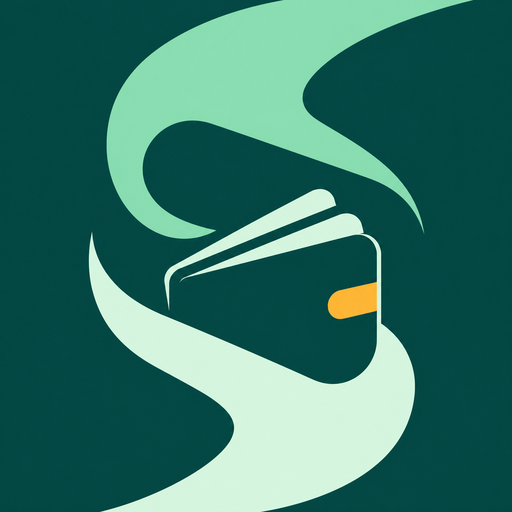
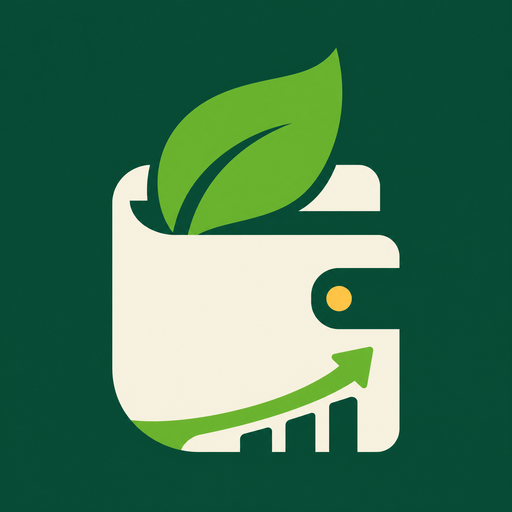
Checkpoint: Revisão visual do Saldo Claro: tokens de tema claros e escuros atualizados para verdes inspirados no Sicredi, componentes e estados semânticos harmonizados, ícone regenerado e aplicado aos recursos da aplicação, configuração Android atualizada e validações de tipos, testes e lint concluí

diff --git a/app/cards.tsx b/app/cards.tsx
@@ -9,10 +9,10 @@ import { useFinanceTheme } from "@/lib/finance-theme";
 
 export default function CardsScreen() {
   const finance = useFinance(); const { colors } = useFinanceTheme(); const [open, setOpen] = useState(false); const [name, setName] = useState(""); const [limit, setLimit] = useState("1000,00");
-  const save = () => { if (!name.trim()) return; finance.addCard({ name: name.trim(), brand: "Visa", lastDigits: "", limit: Number(limit.replace(/[.\s]/g, "").replace(",", ".")) || 1000, closingDay: 25, dueDay: 5, color: "#163C57", accountId: finance.accounts[0]?.id }); setOpen(false); setName(""); };
+  const save = () => { if (!name.trim()) return; finance.addCard({ name: name.trim(), brand: "Visa", lastDigits: "", limit: Number(limit.replace(/[.\s]/g, "").replace(",", ".")) || 1000, closingDay: 25, dueDay: 5, color: "#0B5D2A", accountId: finance.accounts[0]?.id }); setOpen(false); setName(""); };
   return <ScreenContainer><ScrollView contentContainerStyle={styles.content} showsVerticalScrollIndicator={false}><AppHeader title="Cartões" subtitle="Acompanhe limite e faturas" back right={<Pressable onPress={() => setOpen(true)} style={({ pressed }) => [styles.add, { backgroundColor: colors.primary, opacity: pressed ? 0.8 : 1 }]}><MaterialIcons name="add" size={21} color="#FFFFFF" /></Pressable>} />
     {finance.cards.length ? finance.cards.map((card) => { const used = getCardUsage(finance, card, currentMonth()); const available = Math.max(card.limit - used, 0); return <View key={card.id} style={[styles.card, { backgroundColor: card.color }]}><View style={styles.cardTop}><Text style={styles.cardBrand}>{card.brand.toUpperCase()}</Text><MaterialIcons name="contactless" size={23} color="#FFFFFF" /></View><Text style={styles.cardName}>{card.name}</Text><Text style={styles.cardDigits}>{card.lastDigits ? `•••• ${card.lastDigits}` : "Cartão de crédito"}</Text><View style={styles.cardBottom}><View><Text style={styles.cardLabel}>Disponível</Text><MoneyText value={available} style={styles.cardMoney} /></View><View style={{ alignItems: "flex-end" }}><Text style={styles.cardLabel}>Fecha dia {card.closingDay}</Text><Text style={styles.cardLimit}>Limite <MoneyText value={card.limit} style={styles.cardLimitMoney} /></Text></View></View><View style={styles.cardProgress}><ProgressBar value={card.limit ? (used / card.limit) * 100 : 0} color="#79D7C7" trackColor="#FFFFFF35" /></View></View>; }) : <EmptyState icon="credit-card" title="Nenhum cartão cadastrado" description="Registre seus cartões para enxergar compras e faturas antes do vencimento." action="Adicionar cartão" onAction={() => setOpen(true)} />}
     <Surface style={styles.tip}><MaterialIcons name="lightbulb-outline" size={20} color={colors.warning} /><Text style={[styles.tipText, { color: colors.muted }]}>Compras no cartão entram no relatório como despesas, sem duplicar quando a fatura for paga.</Text></Surface>
   </ScrollView><Modal visible={open} transparent animationType="slide" onRequestClose={() => setOpen(false)}><View style={styles.overlay}><View style={[styles.sheet, { backgroundColor: colors.surface }]}><View style={[styles.handle, { backgroundColor: colors.border }]} /><Text style={[styles.sheetTitle, { color: colors.text }]}>Novo cartão</Text><Text style={[styles.label, { color: colors.text }]}>Nome do cartão</Text><TextInput value={name} onChangeText={setName} placeholder="Ex.: Meu cartão principal" placeholderTextColor={colors.muted} style={[styles.input, { color: colors.text, borderColor: colors.border }]} /><Text style={[styles.label, { color: colors.text, marginTop: 14 }]}>Limite total</Text><TextInput value={limit} onChangeText={setLimit} keyboardType="decimal-pad" placeholderTextColor={colors.muted} style={[styles.input, { color: colors.text, borderColor: colors.border }]} /><Pressable onPress={save} style={({ pressed }) => [styles.save, { backgroundColor: colors.primary, opacity: pressed ? 0.8 : 1 }]}><Text style={styles.saveText}>Salvar cartão</Text></Pressable><Pressable onPress={() => setOpen(false)} style={styles.cancel}><Text style={[styles.cancelText, { color: colors.muted }]}>Cancelar</Text></Pressable></View></View></Modal></ScreenContainer>;
 }
-const styles = StyleSheet.create({ content: { paddingHorizontal: 20, paddingBottom: 28 }, add: { height: 40, width: 40, borderRadius: 20, alignItems: "center", justifyContent: "center" }, card: { borderRadius: 23, padding: 19, marginBottom: 12, minHeight: 210, shadowColor: "#0C211C", shadowOpacity: 0.16, shadowRadius: 12, shadowOffset: { width: 0, height: 6 }, elevation: 2 }, cardTop: { flexDirection: "row", justifyContent: "space-between" }, cardBrand: { color: "#FFFFFFAA", fontSize: 11, fontWeight: "900", letterSpacing: 1.2 }, cardName: { color: "#FFFFFF", fontSize: 20, fontWeight: "800", marginTop: 30 }, cardDigits: { color: "#FFFFFFC8", fontSize: 13, marginTop: 6, letterSpacing: 1.2 }, cardBottom: { flexDirection: "row", justifyContent: "space-between", marginTop: 24 }, cardLabel: { color: "#FFFFFFA8", fontSize: 11, fontWeight: "600" }, cardMoney: { color: "#FFFFFF", fontSize: 16, marginTop: 3 }, cardLimit: { color: "#FFFFFFD8", fontSize: 11, marginTop: 4 }, cardLimitMoney: { color: "#FFFFFF", fontSize: 11 }, cardProgress: { marginTop: 12 }, tip: { borderRadius: 17, flexDirection: "row", gap: 10, alignItems: "flex-start", padding: 14, marginTop: 8 }, tipText: { flex: 1, fontSize: 12, lineHeight: 17 }, overlay: { flex: 1, justifyContent: "flex-end", backgroundColor: "#00000066" }, sheet: { padding: 22, paddingBottom: 28, borderTopLeftRadius: 28, borderTopRightRadius: 28 }, handle: { width: 38, height: 4, borderRadius: 3, alignSelf: "center", marginBottom: 19 }, sheetTitle: { fontSize: 20, fontWeight: "800", marginBottom: 18 }, label: { fontSize: 13, fontWeight: "800", marginBottom: 7 }, input: { height: 48, borderRadius: 13, borderWidth: 1, paddingHorizontal: 13, fontSize: 14, fontWeight: "600" }, save: { height: 51, borderRadius: 16, alignItems: "center", justifyContent: "center", marginTop: 21 }, saveText: { color: "#FFFFFF", fontSize: 14, fontWeight: "800" }, cancel: { alignItems: "center", marginTop: 13, padding: 7 }, cancelText: { fontSize: 13, fontWeight: "800" } });
+const styles = StyleSheet.create({ content: { paddingHorizontal: 20, paddingBottom: 28 }, add: { height: 40, width: 40, borderRadius: 20, alignItems: "center", justifyContent: "center" }, card: { borderRadius: 23, padding: 19, marginBottom: 12, minHeight: 210, shadowColor: "#063D1D", shadowOpacity: 0.16, shadowRadius: 12, shadowOffset: { width: 0, height: 6 }, elevation: 2 }, cardTop: { flexDirection: "row", justifyContent: "space-between" }, cardBrand: { color: "#FFFFFFAA", fontSize: 11, fontWeight: "900", letterSpacing: 1.2 }, cardName: { color: "#FFFFFF", fontSize: 20, fontWeight: "800", marginTop: 30 }, cardDigits: { color: "#FFFFFFC8", fontSize: 13, marginTop: 6, letterSpacing: 1.2 }, cardBottom: { flexDirection: "row", justifyContent: "space-between", marginTop: 24 }, cardLabel: { color: "#FFFFFFA8", fontSize: 11, fontWeight: "600" }, cardMoney: { color: "#FFFFFF", fontSize: 16, marginTop: 3 }, cardLimit: { color: "#FFFFFFD8", fontSize: 11, marginTop: 4 }, cardLimitMoney: { color: "#FFFFFF", fontSize: 11 }, cardProgress: { marginTop: 12 }, tip: { borderRadius: 17, flexDirection: "row", gap: 10, alignItems: "flex-start", padding: 14, marginTop: 8 }, tipText: { flex: 1, fontSize: 12, lineHeight: 17 }, overlay: { flex: 1, justifyContent: "flex-end", backgroundColor: "#00000066" }, sheet: { padding: 22, paddingBottom: 28, borderTopLeftRadius: 28, borderTopRightRadius: 28 }, handle: { width: 38, height: 4, borderRadius: 3, alignSelf: "center", marginBottom: 19 }, sheetTitle: { fontSize: 20, fontWeight: "800", marginBottom: 18 }, label: { fontSize: 13, fontWeight: "800", marginBottom: 7 }, input: { height: 48, borderRadius: 13, borderWidth: 1, paddingHorizontal: 13, fontSize: 14, fontWeight: "600" }, save: { height: 51, borderRadius: 16, alignItems: "center", justifyContent: "center", marginTop: 21 }, saveText: { color: "#FFFFFF", fontSize: 14, fontWeight: "800" }, cancel: { alignItems: "center", marginTop: 13, padding: 7 }, cancelText: { fontSize: 13, fontWeight: "800" } });

diff --git a/app/reports.tsx b/app/reports.tsx
@@ -10,4 +10,4 @@ export default function ReportsScreen() {
   const finance = useFinance(); const { colors } = useFinanceTheme(); const month = currentMonth(); const summary = getMonthlySummary(finance, month); const expenses = finance.categories.filter((category) => category.kind === "expense").map((category) => ({ category, value: getCategorySpending(finance, month, category.id) })).filter((item) => item.value > 0).sort((a, b) => b.value - a.value);
   return <ScreenContainer><ScrollView contentContainerStyle={styles.content} showsVerticalScrollIndicator={false}><AppHeader title="Relatórios" subtitle={formatMonth(month)} back /><Surface style={styles.summary}><View><Text style={[styles.summaryLabel, { color: colors.muted }]}>Resultado do mês</Text><MoneyText value={summary.result} style={styles.result} positive={summary.result >= 0} negative={summary.result < 0} /></View><View style={[styles.summaryIcon, { backgroundColor: summary.result >= 0 ? `${colors.positive}18` : `${colors.negative}18` }]}><MaterialIcons name={summary.result >= 0 ? "trending-up" : "trending-down"} size={24} color={summary.result >= 0 ? colors.positive : colors.negative} /></View></Surface><SectionTitle title="Entradas e saídas" /><Surface style={styles.chart}><View style={styles.chartRow}><View style={styles.dotIncome} /><Text style={[styles.chartName, { color: colors.text }]}>Receitas</Text><MoneyText value={summary.income} style={styles.chartMoney} positive /></View><ProgressBar value={100} color={colors.positive} /><View style={[styles.chartRow, { marginTop: 18 }]}><View style={styles.dotExpense} /><Text style={[styles.chartName, { color: colors.text }]}>Despesas</Text><MoneyText value={summary.expenses} style={styles.chartMoney} negative /></View><ProgressBar value={summary.income ? (summary.expenses / summary.income) * 100 : 0} color={colors.negative} /></Surface><SectionTitle title="Despesas por categoria" /><Surface style={styles.categoryChart}>{expenses.length ? expenses.map(({ category, value }) => <View key={category.id} style={styles.reportCategory}><View style={styles.reportCategoryTop}><View style={styles.reportNameWrap}><View style={[styles.reportDot, { backgroundColor: category.color }]} /><Text style={[styles.reportName, { color: colors.text }]}>{category.name}</Text></View><MoneyText value={value} style={styles.reportMoney} /></View><ProgressBar value={summary.expenses ? (value / summary.expenses) * 100 : 0} color={category.color} /></View>) : <Text style={[styles.empty, { color: colors.muted }]}>Registre despesas para visualizar esta análise.</Text>}</Surface><SectionTitle title="O que este painel mostra" /><Surface style={styles.info}><MaterialIcons name="info-outline" size={20} color={colors.primary} /><Text style={[styles.infoText, { color: colors.muted }]}>Transferências não entram como receita ou despesa. Valores pendentes influenciam a previsão, sem alterar o saldo realizado.</Text></Surface></ScrollView></ScreenContainer>;
 }
-const styles = StyleSheet.create({ content: { paddingHorizontal: 20, paddingBottom: 28 }, summary: { borderRadius: 21, flexDirection: "row", justifyContent: "space-between", alignItems: "center", padding: 17 }, summaryLabel: { fontSize: 12, fontWeight: "700" }, result: { fontSize: 26, marginTop: 4 }, summaryIcon: { height: 48, width: 48, borderRadius: 16, alignItems: "center", justifyContent: "center" }, chart: { borderRadius: 20, padding: 16 }, chartRow: { flexDirection: "row", alignItems: "center", marginBottom: 8 }, dotIncome: { height: 9, width: 9, borderRadius: 5, backgroundColor: "#159A6B", marginRight: 8 }, dotExpense: { height: 9, width: 9, borderRadius: 5, backgroundColor: "#D94343", marginRight: 8 }, chartName: { flex: 1, fontSize: 13, fontWeight: "800" }, chartMoney: { fontSize: 13 }, categoryChart: { borderRadius: 20, padding: 16 }, reportCategory: { marginBottom: 16 }, reportCategoryTop: { flexDirection: "row", justifyContent: "space-between", alignItems: "center", marginBottom: 7 }, reportNameWrap: { flexDirection: "row", alignItems: "center" }, reportDot: { height: 9, width: 9, borderRadius: 5, marginRight: 8 }, reportName: { fontSize: 13, fontWeight: "800" }, reportMoney: { fontSize: 13 }, empty: { textAlign: "center", fontSize: 13, paddingVertical: 8 }, info: { borderRadius: 18, padding: 14, flexDirection: "row", alignItems: "flex-start", gap: 10 }, infoText: { flex: 1, fontSize: 12, lineHeight: 18 } });
+const styles = StyleSheet.create({ content: { paddingHorizontal: 20, paddingBottom: 28 }, summary: { borderRadius: 21, flexDirection: "row", justifyContent: "space-between", alignItems: "center", padding: 17 }, summaryLabel: { fontSize: 12, fontWeight: "700" }, result: { fontSize: 26, marginTop: 4 }, summaryIcon: { height: 48, width: 48, borderRadius: 16, alignItems: "center", justifyContent: "center" }, chart: { borderRadius: 20, padding: 16 }, chartRow: { flexDirection: "row", alignItems: "center", marginBottom: 8 }, dotIncome: { height: 9, width: 9, borderRadius: 5, backgroundColor: "#00843D", marginRight: 8 }, dotExpense: { height: 9, width: 9, borderRadius: 5, backgroundColor: "#C74646", marginRight: 8 }, chartName: { flex: 1, fontSize: 13, fontWeight: "800" }, chartMoney: { fontSize: 13 }, categoryChart: { borderRadius: 20, padding: 16 }, reportCategory: { marginBottom: 16 }, reportCategoryTop: { flexDirection: "row", justifyContent: "space-between", alignItems: "center", marginBottom: 7 }, reportNameWrap: { flexDirection: "row", alignItems: "center" }, reportDot: { height: 9, width: 9, borderRadius: 5, marginRight: 8 }, reportName: { fontSize: 13, fontWeight: "800" }, reportMoney: { fontSize: 13 }, empty: { textAlign: "center", fontSize: 13, paddingVertical: 8 }, info: { borderRadius: 18, padding: 14, flexDirection: "row", alignItems: "flex-start", gap: 10 }, infoText: { flex: 1, fontSize: 12, lineHeight: 18 } });

diff --git a/app/categories.tsx b/app/categories.tsx
@@ -10,7 +10,7 @@ import { useFinanceTheme } from "@/lib/finance-theme";
 export default function CategoriesScreen() {
   const finance = useFinance(); const { colors } = useFinanceTheme(); const [kind, setKind] = useState<"expense" | "income">("expense"); const [open, setOpen] = useState(false); const [name, setName] = useState(""); const month = currentMonth();
   const visible = useMemo(() => finance.categories.filter((category) => category.kind === kind && !category.archived), [finance.categories, kind]);
-  const save = () => { if (!name.trim()) return; finance.addCategory({ name: name.trim(), kind, color: kind === "income" ? "#159A6B" : "#8D5FC0", icon: kind === "income" ? "payments" : "category" }); setName(""); setOpen(false); };
+  const save = () => { if (!name.trim()) return; finance.addCategory({ name: name.trim(), kind, color: kind === "income" ? "#00843D" : "#62A744", icon: kind === "income" ? "payments" : "category" }); setName(""); setOpen(false); };
   return <ScreenContainer><ScrollView contentContainerStyle={styles.content} showsVerticalScrollIndicator={false}><AppHeader title="Categorias" subtitle="Dê contexto aos seus lançamentos" back right={<Pressable onPress={() => setOpen(true)} style={({ pressed }) => [styles.add, { backgroundColor: colors.primary, opacity: pressed ? 0.8 : 1 }]}><MaterialIcons name="add" size={21} color="#FFFFFF" /></Pressable>} />
     <View style={styles.segment}><Segment active={kind === "expense"} label="Despesas" onPress={() => setKind("expense")} /><Segment active={kind === "income"} label="Receitas" onPress={() => setKind("income")} /></View>
     {visible.length ? <View style={styles.list}>{visible.map((category) => { const budget = finance.budgets.find((value) => value.categoryId === category.id && value.month === month); const used = getCategorySpending(finance, month, category.id); return <Surface key={category.id} style={styles.category}><View style={[styles.categoryIcon, { backgroundColor: `${category.color}18` }]}><MaterialIcons name={category.icon as keyof typeof MaterialIcons.glyphMap} size={20} color={category.color} /></View><View style={styles.categoryCopy}><Text style={[styles.categoryName, { color: colors.text }]}>{category.name}</Text><Text style={[styles.categoryDetail, { color: colors.muted }]}>{kind === "expense" ? budget ? "Orçamento definido" : "Sem orçamento" : "Categoria de receita"}</Text></View>{kind === "expense" ? <View style={styles.categoryValue}><MoneyText value={used} style={styles.usedMoney} /><Text style={[styles.categoryLabel, { color: colors.muted }]}>{budget ? "usados" : "no mês"}</Text></View> : null}</Surface>; })}</View> : <EmptyState icon="category" title="Sem categorias" description="Crie uma categoria para encontrar seus lançamentos com facilidade." action="Adicionar categoria" onAction={() => setOpen(true)} />}

diff --git a/app/accounts.tsx b/app/accounts.tsx
@@ -13,7 +13,7 @@ export default function AccountsScreen() {
   const [open, setOpen] = useState(false);
   const [name, setName] = useState("");
   const [balance, setBalance] = useState("0,00");
-  const save = () => { if (!name.trim()) return; addAccount({ name: name.trim(), type: "Conta corrente", institution: "", color: "#0B6B62", initialBalance: Number(balance.replace(/[.\s]/g, "").replace(",", ".")) || 0, includeInTotal: true }); setName(""); setBalance("0,00"); setOpen(false); };
+  const save = () => { if (!name.trim()) return; addAccount({ name: name.trim(), type: "Conta corrente", institution: "", color: "#00843D", initialBalance: Number(balance.replace(/[.\s]/g, "").replace(",", ".")) || 0, includeInTotal: true }); setName(""); setBalance("0,00"); setOpen(false); };
   return <ScreenContainer><ScrollView contentContainerStyle={styles.content} showsVerticalScrollIndicator={false}><AppHeader title="Contas e carteiras" subtitle="Seu saldo é calculado pelas movimentações" back right={<Pressable onPress={() => setOpen(true)} style={({ pressed }) => [styles.add, { backgroundColor: colors.primary, opacity: pressed ? 0.8 : 1 }]}><MaterialIcons name="add" size={21} color="#FFFFFF" /></Pressable>} />
     {accounts.length ? <View style={styles.list}>{accounts.map((account) => <Surface key={account.id} style={styles.account}><View style={[styles.accountIcon, { backgroundColor: `${account.color}1A` }]}><MaterialIcons name={account.type === "Poupança" ? "savings" : "account-balance"} size={22} color={account.color} /></View><View style={styles.accountCopy}><Text style={[styles.accountName, { color: colors.text }]}>{account.name}</Text><Text style={[styles.accountMeta, { color: colors.muted }]}>{account.institution || account.type}</Text></View><MoneyText value={calculateAccountBalance(account, transactions)} style={styles.balance} /></Surface>)}</View> : <EmptyState icon="account-balance-wallet" title="Cadastre sua primeira conta" description="Contas ajudam a separar o dinheiro do dia a dia da sua reserva." action="Adicionar conta" onAction={() => setOpen(true)} />}
     <Text style={[styles.note, { color: colors.muted }]}>Os saldos são atualizados automaticamente a partir de receitas, despesas e transferências realizadas.</Text>

diff --git a/components/finance-ui.tsx b/components/finance-ui.tsx
@@ -70,7 +70,7 @@ export function IconButton({ icon, label, onPress, tone = "neutral" }: { icon: k
 export const styles = StyleSheet.create({
   header: { flexDirection: "row", alignItems: "center", justifyContent: "space-between", paddingHorizontal: 20, paddingTop: 8, paddingBottom: 14 },
   headerTitleRow: { flexDirection: "row", alignItems: "center", flex: 1 }, headerText: { flexShrink: 1 }, headerTitle: { fontSize: 25, lineHeight: 31, fontWeight: "800", letterSpacing: -0.5 }, headerSubtitle: { fontSize: 13, lineHeight: 18, marginTop: 1 }, back: { height: 40, width: 40, borderRadius: 20, alignItems: "center", justifyContent: "center", marginRight: 10 },
-  surface: { borderRadius: 22, borderWidth: 1, padding: 16, shadowColor: "#0C211C", shadowOpacity: 0.04, shadowRadius: 12, shadowOffset: { width: 0, height: 4 }, elevation: 1 },
+  surface: { borderRadius: 22, borderWidth: 1, padding: 16, shadowColor: "#063D1D", shadowOpacity: 0.04, shadowRadius: 12, shadowOffset: { width: 0, height: 4 }, elevation: 1 },
   sectionHeader: { flexDirection: "row", alignItems: "center", justifyContent: "space-between", marginTop: 25, marginBottom: 11 }, sectionTitle: { fontSize: 17, fontWeight: "800", letterSpacing: -0.2 }, sectionAction: { fontSize: 13, fontWeight: "700" },
   money: { fontSize: 22, fontWeight: "800", letterSpacing: -0.5 }, progressTrack: { height: 8, borderRadius: 4, overflow: "hidden" }, progressFill: { height: "100%", borderRadius: 4 },
   transactionRow: { flexDirection: "row", alignItems: "center", minHeight: 68, paddingVertical: 8 }, transactionIcon: { width: 42, height: 42, borderRadius: 15, alignItems: "center", justifyContent: "center", marginRight: 11 }, transactionCopy: { flex: 1, minWidth: 0 }, transactionTitle: { fontSize: 14, lineHeight: 19, fontWeight: "700" }, transactionMeta: { fontSize: 12, lineHeight: 17, marginTop: 1 }, transactionAmountWrap: { alignItems: "flex-end", marginLeft: 8 }, transactionAmount: { fontSize: 14, fontWeight: "800" }, status: { fontSize: 11, fontWeight: "600", marginTop: 2 },

diff --git a/lib/finance-theme.tsx b/lib/finance-theme.tsx
@@ -5,12 +5,12 @@ import { useColorScheme } from "react-native";
 export type ThemePreference = "light" | "dark" | "system";
 
 const light = {
-  background: "#F6F8F7", surface: "#FFFFFF", elevated: "#EDF3F0", text: "#16332F", muted: "#687A76", border: "#DFE7E4",
-  primary: "#0B6B62", primaryDark: "#064E47", positive: "#159A6B", warning: "#D98B18", negative: "#D94343", accent: "#E6F2EE",
+  background: "#F7F9F5", surface: "#FFFFFF", elevated: "#EEF5E9", text: "#1B2A21", muted: "#647166", border: "#DCE7DC",
+  primary: "#00843D", primaryDark: "#006B33", positive: "#00843D", warning: "#C98212", negative: "#C74646", accent: "#E8F4D8",
 };
 const dark = {
-  background: "#102522", surface: "#18312D", elevated: "#21433D", text: "#E8F2EF", muted: "#A8BAB4", border: "#2A4B44",
-  primary: "#66C7B5", primaryDark: "#0B6B62", positive: "#54C796", warning: "#F0B64B", negative: "#F07878", accent: "#204C43",
+  background: "#102418", surface: "#183521", elevated: "#234A2C", text: "#EDF7E9", muted: "#A8BCA8", border: "#2C5138",
+  primary: "#5ABF64", primaryDark: "#00843D", positive: "#5ABF64", warning: "#F0BB56", negative: "#F27D7D", accent: "#284B2E",
 };
 
 type Palette = typeof light;

diff --git a/theme.config.js b/theme.config.js
@@ -1,14 +1,14 @@
 /** @type {const} */
 const themeColors = {
-  primary: { light: '#0B6B62', dark: '#66C7B5' },
-  background: { light: '#F6F8F7', dark: '#102522' },
-  surface: { light: '#FFFFFF', dark: '#18312D' },
-  foreground: { light: '#16332F', dark: '#E8F2EF' },
-  muted: { light: '#687A76', dark: '#A8BAB4' },
-  border: { light: '#DFE7E4', dark: '#2A4B44' },
-  success: { light: '#159A6B', dark: '#54C796' },
-  warning: { light: '#D98B18', dark: '#F0B64B' },
-  error: { light: '#D94343', dark: '#F07878' },
+  primary: { light: '#00843D', dark: '#5ABF64' },
+  background: { light: '#F7F9F5', dark: '#102418' },
+  surface: { light: '#FFFFFF', dark: '#183521' },
+  foreground: { light: '#1B2A21', dark: '#EDF7E9' },
+  muted: { light: '#647166', dark: '#A8BCA8' },
+  border: { light: '#DCE7DC', dark: '#2C5138' },
+  success: { light: '#00843D', dark: '#5ABF64' },
+  warning: { light: '#C98212', dark: '#F0BB56' },
+  error: { light: '#C74646', dark: '#F27D7D' },
 };
 
 module.exports = { themeColors };

diff --git a/app.config.ts b/app.config.ts
@@ -32,7 +32,7 @@ const env = {
   appSlug: "saldo-claro",
   // S3 URL of the app logo - set this to the URL returned by generate_image when creating custom logo
   // Leave empty to use the default icon from assets/images/icon.png
-  logoUrl: "/manus-storage/saldo-claro-icon_4173c7c5.png",
+  logoUrl: "/manus-storage/saldo-claro-icon-sicredi-inspired_d36b496c.png",
   scheme: schemeFromBundleId,
   iosBundleId: bundleId,
   androidPackage: bundleId,
@@ -56,7 +56,7 @@ const config: ExpoConfig = {
   },
   android: {
     adaptiveIcon: {
-      backgroundColor: "#E6F4FE",
+      backgroundColor: "#E8F4D8",
       foregroundImage: "./assets/images/android-icon-foreground.png",
       backgroundImage: "./assets/images/android-icon-background.png",
       monochromeImage: "./assets/images/android-icon-monochrome.png",

diff --git a/app/welcome.tsx b/app/welcome.tsx
@@ -16,7 +16,7 @@ export default function WelcomeScreen() {
   const startFresh = () => setStep("account");
   const finishFresh = () => {
     completeWelcome("fresh");
-    addAccount({ name: accountName.trim() || "Minha conta principal", type: "Conta corrente", institution: "", color: "#0B6B62", initialBalance: Number(balance.replace(".", "").replace(",", ".")) || 0, includeInTotal: true });
+    addAccount({ name: accountName.trim() || "Minha conta principal", type: "Conta corrente", institution: "", color: "#00843D", initialBalance: Number(balance.replace(".", "").replace(",", ".")) || 0, includeInTotal: true });
     router.replace("/");
   };
 

diff --git a/todo.md b/todo.md
@@ -16,3 +16,17 @@
 - [ ] Integrar autenticação, sincronização privada e controlo de acesso no servidor.
 - [ ] Implementar recorrências, parcelamentos automáticos e ciclo completo de faturas.
 - [ ] Implementar importação CSV, exportação de dados e relatório em PDF.
+- [x] Atualizar a paleta visual do Saldo Claro para uma identidade inspirada no Sicredi, preservando contraste e estados semânticos.
+- [x] Rever o ícone e a documentação visual após a alteração de cores.
+- [x] Validar tipagem, testes e lint depois da atualização de tema.
+- [x] Criar novo checkpoint da revisão visual.
+
+```text
+Alteração solicitada após a primeira entrega: substituir a paleta verde-petróleo atual por verde Sicredi, branco, cinza neutro e acentos de apoio.
+```
+
+> Nota: a inspiração será aplicada como referência cromática, sem reproduzir logotipo, tipografia proprietária ou outros elementos protegidos da marca Sicredi.
+
+- [x] Avaliar se o ícone atual deve ser regenerado com a nova direção cromática.
+
+**Escopo cromático proposto:** verde institucional profundo para ações primárias, verde claro para superfícies e estados positivos, branco para cartões principais, grafite para texto e âmbar/vermelho mantidos apenas para alertas semânticos.
